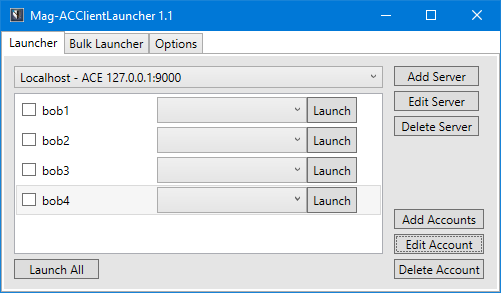
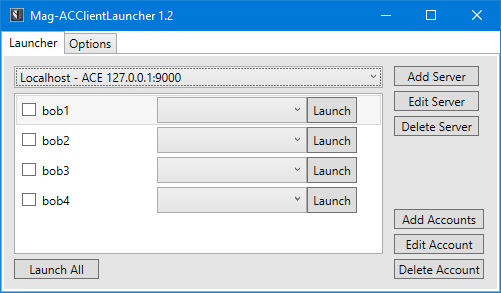
Remove Bulk Launcher tab
This tab is now in a separate branch.

diff --git a/Source/MainWindow.xaml b/Source/MainWindow.xaml
@@ -39,21 +39,6 @@
                     <Button x:Name="cmdLaunchAll" Content="Launch All" HorizontalAlignment="Left" Margin="10,0,0,10" VerticalAlignment="Bottom" Width="85" Click="cmdLaunchAll_Click" HorizontalContentAlignment="Center"/>
                 </Grid>
             </TabItem>
-            <TabItem Header="Bulk Launcher" HorizontalAlignment="Left" VerticalAlignment="Top">
-                <Grid Background="#FFE5E5E5">
-                    <ComboBox x:Name="cboBulkLauncherServerList" Margin="10,10,114,0" VerticalAlignment="Top" SelectionChanged="cboBulkLauncherServerList_SelectionChanged"/>
-                    <Label Content="Quantity to launch" HorizontalAlignment="Left" Margin="10,34,0,0" VerticalAlignment="Top"/>
-                    <TextBox x:Name="txtBulkLaunchQuantity" Margin="163,37,0,0" TextWrapping="Wrap" Height="23" VerticalAlignment="Top" HorizontalAlignment="Left" Width="53" RenderTransformOrigin="1.927,-3.718" Text="{Binding BulkLaunchQuantity, Mode=TwoWay, Source={x:Static p:Settings.Default}}" MaxLength="5" MaxLines="1"/>
-                    <Label Content="Start launch at index" HorizontalAlignment="Left" Margin="10,62,0,0" VerticalAlignment="Top"/>
-                    <TextBox x:Name="txtBulkLaunchStartIndex" Margin="163,65,0,0" TextWrapping="Wrap" HorizontalAlignment="Left" Width="53" RenderTransformOrigin="1.927,-3.718" Height="23" VerticalAlignment="Top" Text="{Binding BulkLaunchStartIndex, Mode=TwoWay, Source={x:Static p:Settings.Default}}" MaxLength="5" MaxLines="1"/>
-                    <Label Content="User name prefix" HorizontalAlignment="Left" Margin="10,90,0,0" VerticalAlignment="Top"/>
-                    <TextBox x:Name="txtBulkLaunchUserNamePrefix" Margin="163,93,0,0" TextWrapping="Wrap" Height="23" VerticalAlignment="Top" HorizontalAlignment="Left" Width="53" RenderTransformOrigin="1.927,-3.718" Text="{Binding BulkLaunchUserNamePrefix, Mode=TwoWay, Source={x:Static p:Settings.Default}}" MaxLines="1"/>
-                    <Button x:Name="cmdBulkLaunch" Content="Bulk Launch" Margin="226,95,0,0" VerticalAlignment="Top" HorizontalContentAlignment="Center" RenderTransformOrigin="2.764,0.605" HorizontalAlignment="Left" Width="75" Click="cmdBulkLaunch_Click"/>
-                    <TextBox x:Name="txtBulkLaunchStatus" Margin="10,149,10,10" TextWrapping="Wrap" RenderTransformOrigin="1.927,-3.718" VerticalScrollBarVisibility="Auto" FontSize="10" FontFamily="Consolas"/>
-                    <Label Content="Password" HorizontalAlignment="Left" Margin="10,118,0,0" VerticalAlignment="Top"/>
-                    <TextBox x:Name="txtBulkLaunchPassword" Margin="163,121,0,0" TextWrapping="Wrap" Height="23" VerticalAlignment="Top" HorizontalAlignment="Left" Width="138" RenderTransformOrigin="1.927,-3.718" Text="{Binding BulkLaunchPassword, Mode=TwoWay, Source={x:Static p:Settings.Default}}" MaxLines="1"/>
-                </Grid>
-            </TabItem>
             <TabItem Header="Options">
                 <Grid Background="#FFE5E5E5">
                     <TextBox x:Name="txtACClientLocation" HorizontalAlignment="Left" Height="23" Margin="10,36,0,0" TextWrapping="Wrap" VerticalAlignment="Top" Width="300" IsReadOnly="True" Text="{Binding ACClientLocation, Mode=TwoWay, Source={x:Static p:Settings.Default}}" Grid.ColumnSpan="2"/>

diff --git a/Source/MainWindow.xaml.cs b/Source/MainWindow.xaml.cs
@@ -3,7 +3,6 @@ using System.Collections.Generic;
 using System.ComponentModel;
 using System.Diagnostics;
 using System.IO;
-using System.Threading;
 using System.Threading.Tasks;
 using System.Windows;
 using System.Windows.Controls;
@@ -20,17 +19,9 @@ namespace Mag_ACClientLauncher
     {
         public MainWindow()
         {
-            if (String.IsNullOrWhiteSpace(Properties.Settings.Default.BulkLaunchPassword))
-            {
-                // Create a random password if one doesn't exist
-                var rand = new Random();
-                for (int i = 0; i < 16; i++)
-                    Properties.Settings.Default.BulkLaunchPassword += Convert.ToChar(rand.Next(97, 122));
-            }
-
             InitializeComponent();
 
-            Title += " 1.1"; // Update line 55 in AssemblyInfo.cs
+            Title += " 1.2"; // Update line 55 in AssemblyInfo.cs
 
             if (Properties.Settings.Default.WindowPositionLeft != 0 && Properties.Settings.Default.WindowPositionTop != 0)
             {
@@ -73,15 +64,12 @@ namespace Mag_ACClientLauncher
 
             PopulateServerList(cboLauncherServerList, serversList);
 
-            PopulateServerList(cboBulkLauncherServerList, serversList);
-
             cmdEditServer.IsEnabled = (serversList.Count > 0);
             cmdDeleteServer.IsEnabled = (serversList.Count > 0);
 
             cmdAddAccounts.IsEnabled = (serversList.Count > 0);
 
             cmdLaunchAll.IsEnabled = (serversList.Count > 0);
-            cmdBulkLaunch.IsEnabled = (serversList.Count > 0);
         }
 
         private void PopulateServerList(ComboBox comboBox, ICollection<Server> servers)
@@ -103,16 +91,6 @@ namespace Mag_ACClientLauncher
                     cboLauncherServerList.SelectedItem = item;
 
                     SetListAccountsSource(server.Accounts);
-
-                    break;
-                }
-            }
-
-            foreach (var item in cboBulkLauncherServerList.Items)
-            {
-                if (item is Server server && server.Id == id)
-                {
-                    cboBulkLauncherServerList.SelectedItem = item;
 
                     break;
                 }
@@ -356,84 +334,6 @@ namespace Mag_ACClientLauncher
             finally
             {
                 cmdLaunchAll.IsEnabled = true;
-            }
-        }
-
-
-        // =====================================
-        // ========== BULK LAUNCH TAB ==========
-        // =====================================
-
-        private void cboBulkLauncherServerList_SelectionChanged(object sender, SelectionChangedEventArgs e)
-        {
-            if (cboBulkLauncherServerList.SelectedItem is Server server)
-                SelectServer(server.Id);
-        }
-
-        CancellationTokenSource bulkLaunchCTS;
-
-        private async void cmdBulkLaunch_Click(object sender, RoutedEventArgs e)
-        {
-            if (cmdBulkLaunch.Content.ToString() == "Cancel")
-            {
-                if (bulkLaunchCTS != null)
-                {
-                    bulkLaunchCTS.Cancel();
-                    bulkLaunchCTS = null;
-                }
-
-                cmdBulkLaunch.Content = "Bulk Launch";
-                return;
-            }
-
-            cmdBulkLaunch.Content = "Cancel";
-
-            try
-            {
-                if (cboBulkLauncherServerList.SelectedItem is Server server)
-                {
-                    bulkLaunchCTS = new CancellationTokenSource();
-
-                    await DoBulkLaunch(Properties.Settings.Default.BulkLaunchQuantity, Properties.Settings.Default.BulkLaunchStartIndex, Properties.Settings.Default.BulkLaunchUserNamePrefix, Properties.Settings.Default.BulkLaunchPassword, TimeSpan.FromSeconds(Properties.Settings.Default.IntervalBetweenLaunches), server, bulkLaunchCTS.Token);
-                }
-            }
-            finally
-            {
-                cmdBulkLaunch.Content = "Bulk Launch";
-            }
-        }
-
-        private async Task DoBulkLaunch(int launchQuantity, int startIndex, string userNamePrefix, string password, TimeSpan interval, Server server, CancellationToken token)
-        {
-            if (String.IsNullOrWhiteSpace(password))
-            {
-                MessageBox.Show("Password cannot be empty", "Error", MessageBoxButton.OK, MessageBoxImage.Error);
-                return;
-            }
-
-            for (int i = startIndex; i < (startIndex + launchQuantity); i++)
-            {
-                if (token.IsCancellationRequested)
-                    return;
-
-                var userName = userNamePrefix + i.ToString("00000");
-
-                txtBulkLaunchStatus.Text += $"{DateTime.Now}: Launching user {userName}, connection {(i - startIndex) + 1} of {launchQuantity}" + Environment.NewLine;
-                txtBulkLaunchStatus.ScrollToEnd();
-
-                var account = new Account {UserName = userName, Password = password };
-
-                if (!DoLaunch(server, account))
-                {
-                    txtBulkLaunchStatus.Text += $"{DateTime.Now}: Launching user {userName}, connection {(i - startIndex) + 1} of {launchQuantity} FAILED" + Environment.NewLine;
-                    txtBulkLaunchStatus.ScrollToEnd();
-                    break;
-                }
-
-                if (token.IsCancellationRequested)
-                    return;
-
-                await Task.Delay(interval);
             }
         }
 

diff --git a/Source/Properties/Settings.Designer.cs b/Source/Properties/Settings.Designer.cs
@@ -61,43 +61,7 @@ namespace Mag_ACClientLauncher.Properties {
         
         [global::System.Configuration.UserScopedSettingAttribute()]
         [global::System.Diagnostics.DebuggerNonUserCodeAttribute()]
-        [global::System.Configuration.DefaultSettingValueAttribute("1")]
-        public int BulkLaunchQuantity {
-            get {
-                return ((int)(this["BulkLaunchQuantity"]));
-            }
-            set {
-                this["BulkLaunchQuantity"] = value;
-            }
-        }
-        
-        [global::System.Configuration.UserScopedSettingAttribute()]
-        [global::System.Diagnostics.DebuggerNonUserCodeAttribute()]
-        [global::System.Configuration.DefaultSettingValueAttribute("0")]
-        public int BulkLaunchStartIndex {
-            get {
-                return ((int)(this["BulkLaunchStartIndex"]));
-            }
-            set {
-                this["BulkLaunchStartIndex"] = value;
-            }
-        }
-        
-        [global::System.Configuration.UserScopedSettingAttribute()]
-        [global::System.Diagnostics.DebuggerNonUserCodeAttribute()]
-        [global::System.Configuration.DefaultSettingValueAttribute("test_")]
-        public string BulkLaunchUserNamePrefix {
-            get {
-                return ((string)(this["BulkLaunchUserNamePrefix"]));
-            }
-            set {
-                this["BulkLaunchUserNamePrefix"] = value;
-            }
-        }
-        
-        [global::System.Configuration.UserScopedSettingAttribute()]
-        [global::System.Diagnostics.DebuggerNonUserCodeAttribute()]
-        [global::System.Configuration.DefaultSettingValueAttribute("2")]
+        [global::System.Configuration.DefaultSettingValueAttribute("6")]
         public int IntervalBetweenLaunches {
             get {
                 return ((int)(this["IntervalBetweenLaunches"]));
@@ -140,18 +104,6 @@ namespace Mag_ACClientLauncher.Properties {
             }
             set {
                 this["WindowPositionTop"] = value;
-            }
-        }
-        
-        [global::System.Configuration.UserScopedSettingAttribute()]
-        [global::System.Diagnostics.DebuggerNonUserCodeAttribute()]
-        [global::System.Configuration.DefaultSettingValueAttribute("")]
-        public string BulkLaunchPassword {
-            get {
-                return ((string)(this["BulkLaunchPassword"]));
-            }
-            set {
-                this["BulkLaunchPassword"] = value;
             }
         }
     }

diff --git a/Source/Properties/AssemblyInfo.cs b/Source/Properties/AssemblyInfo.cs
@@ -52,4 +52,4 @@ using System.Windows;
 // by using the '*' as shown below:
 // [assembly: AssemblyVersion("1.0.*")]
 [assembly: AssemblyVersion("1.0.0.0")]
-[assembly: AssemblyFileVersion("1.1")] // Update line 25 in MainWindow.xaml.cs
+[assembly: AssemblyFileVersion("1.2")] // Update line 25 in MainWindow.xaml.cs

diff --git a/README.md b/README.md
@@ -15,6 +15,4 @@
 
 ![Launcher](/Docs/Images/Launcher.png?raw=true)
 
-![Launcher](/Docs/Images/Bulk%20Launcher.png?raw=true)
-
 ![Launcher](/Docs/Images/Options.png?raw=true)
